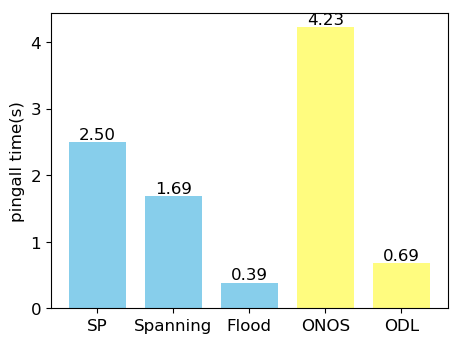
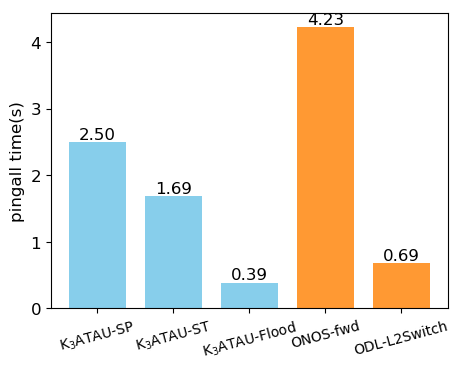
acfun

diff --git a/mininet/plot/eval.py b/mininet/plot/eval.py
@@ -7,16 +7,64 @@ matplotlib.rcParams['figure.figsize']=[6.4*0.8,4.8*0.8]
 matplotlib.rcParams['font.size']=12
 
 themecolor1 = 'skyblue'
-themecolor2 = '#FFFC7F'
+themecolor2 = '#EEEE00'
+themecolor3 = '#FF9933'
 
-def plotgraph(name,data,tick_label,ylabel,color):
+
+
+systemname = 'K${}_3$ATAU'
+
+def plotgraph(name,data,tick_label,ylabel,color,xtick_rotation=0):
     plt.clf()
-    plt.bar(range(len(data)), data,width=min(0.8,0.15*len(data)),tick_label=tick_label,color=color)
+    x =range(len(data))
+    plt.bar(x, data,width=min(0.8,0.15*len(data)),color=color)
+    ax = plt.axes()
+    ax.set_xticks(x)
+    ax.set_xticklabels(tick_label,rotation=xtick_rotation,fontsize='small')
     for i in range(len(data)):
         y = data[i]
         plt.text(i,y,'%.2f'%y,ha='center',va='bottom')
     plt.ylabel(ylabel)
     plt.savefig('figs/'+name+'.png',bbox_inches='tight')
+
+
+
+data = [[0.695, 0.502, 0.253,   0.945, 0.144],
+        [17.202,5.916, 1.72, 71.578,3.234],
+        [0.234,0.185,  0.12,  0.376,0.130],
+        [2.495,1.686,  0.387, 4.23,0.685]]
+la =[systemname+'-SP',systemname+'-ST',systemname+'-Flood','ONOS-fwd','ODL-L2Switch']
+
+color = [themecolor1,themecolor1,themecolor1,themecolor3,themecolor3]
+
+topo=['Sprint_11_29','Geant2012_40_101','Basnet_7_13','Noel_19_44']
+
+for i,d in enumerate(data):
+    plotgraph('test1_%s'%topo[i],d,la,'pingall time(s)',color,xtick_rotation=15)
+
+
+
+data = [[45.25, 65.25, 2059.75],
+        [33.75, 0, 4004.25]]
+la =[systemname,'ONOS','ODL']
+color = [themecolor1,themecolor2,themecolor3]
+
+for i,d in enumerate(data,1):
+    plotgraph('test2_%d'%i,d,la,'recovery time(ms)',color)
+
+
+
+
+matplotlib.rcParams['figure.figsize']=[6.4,4.8]
+matplotlib.rcParams['font.size']=10
+
+data = [116.305, 23.343, 27.729,      104.579,       115.722,      115.594, 31.103]
+la =   ['P1'   , 'P2'  , 'P3-1', 'P3-2', 'P3-3',  'ONOS',  'ODL']
+color = [*(themecolor1,)*2, *(themecolor2,)*3, *(themecolor3,)*2]
+plotgraph('test3',data,la,'traffic rate(Mbytes/s)',color)
+
+
+
 
 
 
@@ -50,45 +98,5 @@ plotgraph('figure3_2',data,la,'traffic rate(Mbytes/sec)',color)
 
 '''
 
-#########################################################
-
-# data = [116.305,23.343,115.722,115.594,31.103]
-# la = ['P1','P2','P3','ONOS','ODL']
-# color = themecolor1
-# plotgraph('test3',data,la,'traffic rate(Mbytes/s)',color)
-
-data = [[0.695, 0.502, 0.253,   0.945, 0.144],
-        [17.202,5.916, 1.72, 71.578,3.234],
-        [0.234,0.185,  0.12,  0.376,0.130],
-        [2.495,1.686,  0.387, 4.23,0.685]]
-la =['SP','Spanning','Flood','ONOS','ODL']
-
-color = [themecolor1,themecolor1,themecolor1,themecolor2,themecolor2]
-
-topo=['Sprint_11_29','Geant2012_40_101','Basnet_7_13','Noel_19_44']
-
-for i,d in enumerate(data):
-    plotgraph('test1_%s'%topo[i],d,la,'pingall time(s)',color)
-
-
-
-data = [[45.25, 2059.75, 65.25],
-        [33.75, 4004.25, 0]]
-la =['SP','ODL','ONOS']
-color = [themecolor1,themecolor2,themecolor2]
-
-for i,d in enumerate(data,1):
-    plotgraph('test2_%d'%i,d,la,'recovery time(ms)',color)
-
-
-
-
-matplotlib.rcParams['figure.figsize']=[6.4,4.8]
-matplotlib.rcParams['font.size']=10
-
-data = [116.305, 23.343, 27.729,      104.579,       115.722,      115.594, 31.103]
-la =   ['P1'   , 'P2'  , 'P3-1', 'P3-2', 'P3-3',  'ONOS',  'ODL']
-color = [*(themecolor1,)*5,*(themecolor2,)*2]
-plotgraph('test3',data,la,'traffic rate(Mbytes/s)',color)
 
 

diff --git a/mininet/README.md b/mininet/README.md
@@ -1,7 +1,5 @@
 
-# test3
-
-### 测试环境:
+# 测试环境:
 
 * Intel(R) Core(TM) i7-6700 CPU @ 3.40GHz
 * 8G DDR4 memory + 4G swap
@@ -9,6 +7,55 @@
 * OpenDaylight Carbon
 * ONOS 1.12.0
 * Mininet 2.3.0d1
+
+
+# test1
+
+获取Mininet启动之后第一次执行pingall命令的消耗时间，衡量控制器的响应速度
+
+### 结果:
+
+![result1_1](./plot/figs/test1_Geant2012_40_101.png)
+
+其中
+
+* SP : 使用最短路径的应用,生成的流表会匹配端口，源和目的地址
+* ST : 以目的端口为根节点，计算最小生成树，生成的流表匹配端口和目的地址
+* Flood : 以一个固定端口为根，且计算过程中保持一定的顺序，对整个拓扑计算一个固定的最小生成树，生成的流表只匹配端口
+* ONOS : ONOS-fwd应用
+* ODL : ODL l2switch应用
+
+可以得到的结论有，
+
+* 可以用不同的算法实现L2Switch的应用, 效率上也不相同
+* 和ONOS相比，响应速度都快于ONOS
+* 和ODL相比，因为ODL-l2switch网络内部链路使用广播方式，和Flood应用相比，Flood应用的响应速度也更快
+
+# test2
+
+使用一个周期的udp数据流测量网络的恢复时间
+
+
+### 结果:
+
+switch down:
+
+![result](./plot/figs/test2_1.png)
+
+link down:
+
+![result](./plot/figs/test2_2.png)
+
+测试时，在link down的情况下ONOS无法恢复
+
+可以得到的结论有，
+
+* 系统可以快速恢复
+
+
+# test3
+
+
 
 ### 测试拓扑: Noel
 
@@ -24,7 +71,8 @@ Server节点运行nginx 1.10.3
 
 Client节点使用apache benchmark (2.3)测试传输速率
 
-测试命令类似`ab -c 10 -n 100 http://10.0.0.7/50M.dat`, `-c 10` 表示并发量为10，nginx不会成为bottleneck，测试P3分别使用了1M,10M,50M的数据量，其他测试结果为50M的数据量，因为其他测试结果不会受到数据量影响，即时测试也是很接近的数值
+测试命令类似`ab -c 10 -n 100 http://10.0.0.7/50M.dat`, `-c 10` 表示并发量为10，nginx不会成为bottleneck，测试P3分别使用了1M,10M,50M的数据量，其他测试结果为50M的数据量，因为其他测试结果不会受到数据量影响，测试结果数值接近
+
 ### 结果:
 
 ![result](./plot/figs/test3.png)
